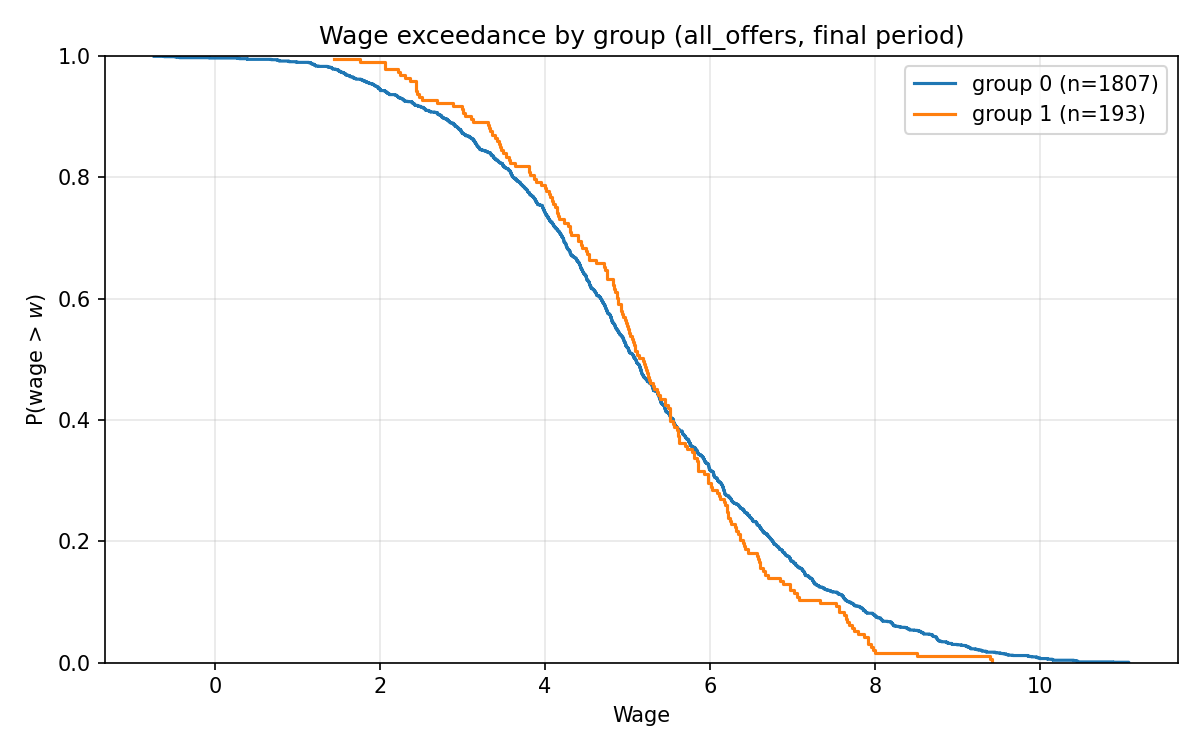
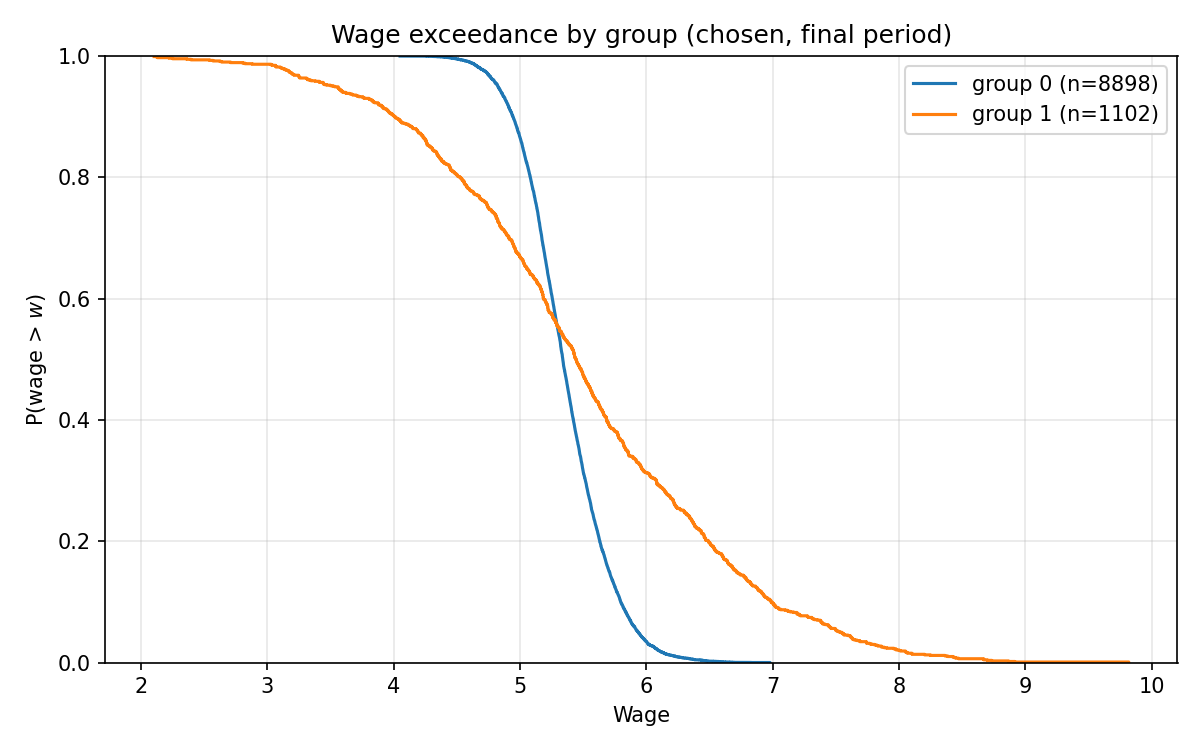
firm tracking, wage cdf

diff --git a/src/ebd.py b/src/ebd.py
@@ -10,11 +10,11 @@ class Workers:
     n: int = 2
     n_g: int = 2
     mu_p: float = 5.0
-    sigma_p: float = 2.0 # Std, not variance
+    sigma_p: float = 1.0 # Std, not variance
     mu_res: float = 1.0
     sigma_res: float = 0.5 # Std, not variance
-    rho: float = 0.1 # Correlation between Productivity and Reservation wage
-    sigma_signal: float = 0.5 # True standard deviation of signal around realised productivity
+    rho: float = 0.25 # Correlation between Productivity and Reservation wage
+    sigma_signal: float = 1.5 # True standard deviation of signal around realised productivity
     group_1_share: float = 0.1  # fraction of workers in group 1 (minority); group 0 is majority
 
     def __post_init__(self):
@@ -66,15 +66,15 @@ class Firms:
     global_mean: float = 2.0 # Only used if hierarchical == True
 
     #Posteriors - uncertainty over true distribution is the same for all groups
-    mu_0: float = 1.0
-    nu_0: float = 1.0
-    alpha_0: float = 2.5
-    beta_0: float = 2.5
+    mu_0: float = field(default_factory=lambda: np.array([5.0, 5.0]))
+    nu_0: float = field(default_factory=lambda: np.array([100.0, 1.0]))
+    alpha_0: float = field(default_factory=lambda: np.array([25.0, 2.5]))
+    beta_0: float = field(default_factory=lambda: np.array([2.5, 25.0]))
 
     # Posteriors - uncertainty over quality of signal is different
     # Correctly believe tha signal is unbiased - true mean of signal variation is zero
     delta_0: np.ndarray = field(default_factory=lambda: np.array([2.0, 2.0]))
-    kappa_0: np.ndarray = field(default_factory=lambda: np.array([1.0, 10.0]))
+    kappa_0: np.ndarray = field(default_factory=lambda: np.array([2.0, 2.0]))
 
     def __post_init__(self):
         self.firms_info = {
@@ -83,10 +83,10 @@ class Firms:
                 # Priors on group g
                 {
                     g: 
-                [self.mu_0, # Prior on group means
-                self.nu_0,
-                self.alpha_0,
-                self.beta_0,
+                [self.mu_0[g], # Prior on group means
+                self.nu_0[g],
+                self.alpha_0[g],
+                self.beta_0[g],
                 self.delta_0[g],
                 self.kappa_0[g]]
                 for g in range(self.n_g)},
@@ -224,7 +224,7 @@ class Firms:
     def get_priors(self, workers, pairs) -> tuple[np.ndarray, np.ndarray]:
         """sig_var and prod_var for all (firm, group). Shapes (n_firms, n_g)."""
         _cand_groups = workers.groups[pairs] 
-            # gather posterior params for each candidate's group
+        # gather posterior params for each candidate's group
         firm_idx_2d = np.arange(self.n)[:, None]     # (F,1)
         _cand_post = self.beliefs[firm_idx_2d, _cand_groups, :]   # (F,2,6)
         mu = _cand_post[:, :, I_MU]
@@ -242,21 +242,6 @@ class Firms:
         """Function for choosing which bandit is best; currently myopic, need to implement UCB here too;
         COuld also potentially do q-Learning? But not really applicable here!"""
         pass
-
-    # Reduandant as vectorised
-    def wage_offer(self, firm, workers, matched_worker):
-
-        worker_group = workers.workers_info[matched_worker][3] # Gives group of worker
-        signal = workers.workers_info[matched_worker][2] # Observed signal
-        mu, nu, alpha, beta, delta, kappa = self.firms_info[firm][0][worker_group]
-
-        sig_var = kappa / (delta - 1)
-        prod_var = beta / (alpha -1)
-
-        w = prod_var / (prod_var + sig_var)
-
-        wage_offer = (w * signal) + (1- w) * mu # Wage offer is weighted average of observed signal and best guess of prod of that group based on variance of the two
-        return wage_offer
 
 N_G = 2 # Num groups same in both worker and firm classes
 
@@ -327,6 +312,9 @@ class Simulation:
 
         self.chosen_group_log = np.zeros((T, F), dtype=np.int64)
         self.cand_groups_log = np.zeros((T, F, 2), dtype=np.int64)
+
+        self.cand_surplus_log = np.full((T, F, 2), np.nan, dtype=np.float64)
+        self.surplus_obtained_log = np.zeros((T, F), dtype=np.float64)
 
         self.wage_by_group: dict[int, np.ndarray] | None = None
         self.cdf_by_group: dict[int, tuple[np.ndarray, np.ndarray]] | None = None
@@ -401,7 +389,68 @@ class Simulation:
         self._cand_res = cand_res              # (F, 2)
         self._cand_groups = cand_groups        # (F, 2)
 
+        # Tracking Firm behaviour
+        self._chosen_exp_prod = mu[f, choice]        # (F, ) ; expected productivity (prior on candidates productivity)
+        self._exp_diff = self.chosen_prod - self._chosen_exp_prod # (F, ) ; difference between observed and expected productivity
+
+        ## Note
+        # This is driving the changes in expectations - IF there is a trly bad initial experience, ie an individual from gr 1 
+        # is hired, the observed productivity is much worse, and they tend not to hire from thm again, while positive experiences
+        # tend to reutrn to proper expectations, as they hire from the same group again, and consequently gather more data on them
+
         self.record()
+
+        
+    def record(self) -> None:
+        """Write one period into preallocated logs."""
+        t = self._t
+        w = self._wage_offer
+        p = self._cand_prod
+        r = self._cand_res
+        d = self._exp_diff
+
+        # See firm_step
+        self.surplus_obtained_log[t] = d
+
+        self.chosen_group_log[t] = self.chosen_group
+        self.cand_groups_log[t] = self._cand_groups
+
+        # Offers and choices
+        self.wage_offers[t] = w
+        self.chosen_wage_log[t] = self.chosen_wage
+        self.accepted_log[t] = self.accepted
+
+        # Profit: surplus only if hire accepted
+        actual_profit = np.where(
+            self.accepted,
+            self.chosen_prod - self.chosen_wage,
+            0.0,
+        )
+
+        self.profit[t] = actual_profit
+
+        # Oracle: best feasible surplus among the two candidates
+        feasible = w > r
+        surplus = p - w
+        surplus = np.where(feasible, surplus, np.nan)
+        oracle = np.nanmax(surplus, axis=1)
+        oracle = np.nan_to_num(oracle, nan=0.0)
+
+        self.regret[t] = oracle - actual_profit
+
+        # Accepted wage (NaN if rejected)
+        self.accepted_wages[t] = np.where(
+            self.accepted,
+            self.chosen_wage,
+            np.nan,
+        )
+
+        # Mean chosen wage by group (among firms that chose that group)
+        for g in range(self.ng):
+            mask = self.chosen_group == g
+            if np.any(mask):
+                self.wages[t, g] = float(np.mean(self.chosen_wage[mask]))
+
 
     def simulate(self, base_seed: int = 1):
         for t in range(self.horizon):
@@ -410,6 +459,16 @@ class Simulation:
             self.pairs = self.match_two_per_firm(rng)
             self.firm_step(self.pairs)
         self._build_wage_distributions()
+
+    def trace_firm_choice(self):
+        choice = self.chosen_group_log
+        diff = self.surplus_obtained_log
+        print(choice.shape)
+
+        for firm_log in range(self.nf):
+            if choice[:, firm_log].sum()/ self.horizon < 0.05:
+                print(diff[:, firm_log][choice[:, firm_log] == 1])
+
 
     def _period_range(self, scope: str | None) -> range | list[int]:
         scope = scope or self.wage_dist_scope
@@ -524,12 +583,13 @@ class Simulation:
         self.ng = self.workers.n_g
         self._init_log_buffers()
 
-    def record(self) -> None:
+ 
         """Write one period into preallocated logs."""
         t = self._t
         w = self._wage_offer
         p = self._cand_prod
         r = self._cand_res
+        s = self._cand_signal
 
         self.chosen_group_log[t] = self.chosen_group
         self.cand_groups_log[t] = self._cand_groups
@@ -554,6 +614,8 @@ class Simulation:
         surplus = np.where(feasible, surplus, np.nan)
         oracle = np.nanmax(surplus, axis=1)
         oracle = np.nan_to_num(oracle, nan=0.0)
+
+        print(self.chosen_group)
 
         self.regret[t] = oracle - actual_profit
 

diff --git a/market_sim.py b/market_sim.py
@@ -1,6 +1,6 @@
 from src.ebd import Simulation
 
-N_FIRMS = 1000
+N_FIRMS = 10000
 GROUP_1_SHARE = 0.1  # minority share; change to sweep parameters
 WAGE_DIST_SCOPE = "final"  # "all" | "final" — periods included in CDF / means
 
@@ -10,8 +10,8 @@ wk = {"n": 2 * N_FIRMS, "n_g": 2, "group_1_share": GROUP_1_SHARE}
 sim = Simulation(
     fk,
     wk,
-    horizon=1000,
-    wage_dist_which="all_offers",
+    horizon=100,
+    wage_dist_which="chosen",
     wage_dist_scope=WAGE_DIST_SCOPE,
 )
 sim.simulate(base_seed=42)
@@ -29,3 +29,6 @@ for g in range(sim.ng):
         f"group {g}: n={w.size}, mean={w.mean():.3f}, "
         f"P(wage > 4)={sim.fraction_above(g, 4.0):.1%}"
     )
+
+sim.trace_firm_choice()
+
